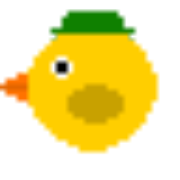
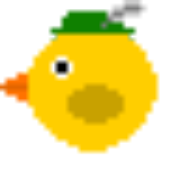
Added a feather on the hat (cousin's idea)

Changed region(s): [[0.5556, 0.0, 0.8333, 0.1667]]

diff --git a/index.html b/index.html
@@ -112,7 +112,7 @@ body {
 
 		<script src="index.js"></script>
 		<script>
-const GODOT_CONFIG = {"args":[],"canvasResizePolicy":2,"emscriptenPoolSize":8,"ensureCrossOriginIsolationHeaders":true,"executable":"index","experimentalVK":false,"fileSizes":{"index.pck":1095244,"index.wasm":39513091},"focusCanvas":true,"gdextensionLibs":[],"godotPoolSize":4,"serviceWorker":"index.service.worker.js"};
+const GODOT_CONFIG = {"args":[],"canvasResizePolicy":2,"emscriptenPoolSize":8,"ensureCrossOriginIsolationHeaders":true,"executable":"index","experimentalVK":false,"fileSizes":{"index.pck":1095340,"index.wasm":39513091},"focusCanvas":true,"gdextensionLibs":[],"godotPoolSize":4,"serviceWorker":"index.service.worker.js"};
 const GODOT_THREADS_ENABLED = false;
 const engine = new Engine(GODOT_CONFIG);
 

diff --git a/index.service.worker.js b/index.service.worker.js
@@ -4,7 +4,7 @@
 // Incrementing CACHE_VERSION will kick off the install event and force
 // previously cached resources to be updated from the network.
 /** @type {string} */
-const CACHE_VERSION = '1785647980|184711709';
+const CACHE_VERSION = '1786257904|743903759';
 /** @type {string} */
 const CACHE_PREFIX = 'Flappy bird-sw-cache-';
 const CACHE_NAME = CACHE_PREFIX + CACHE_VERSION;
